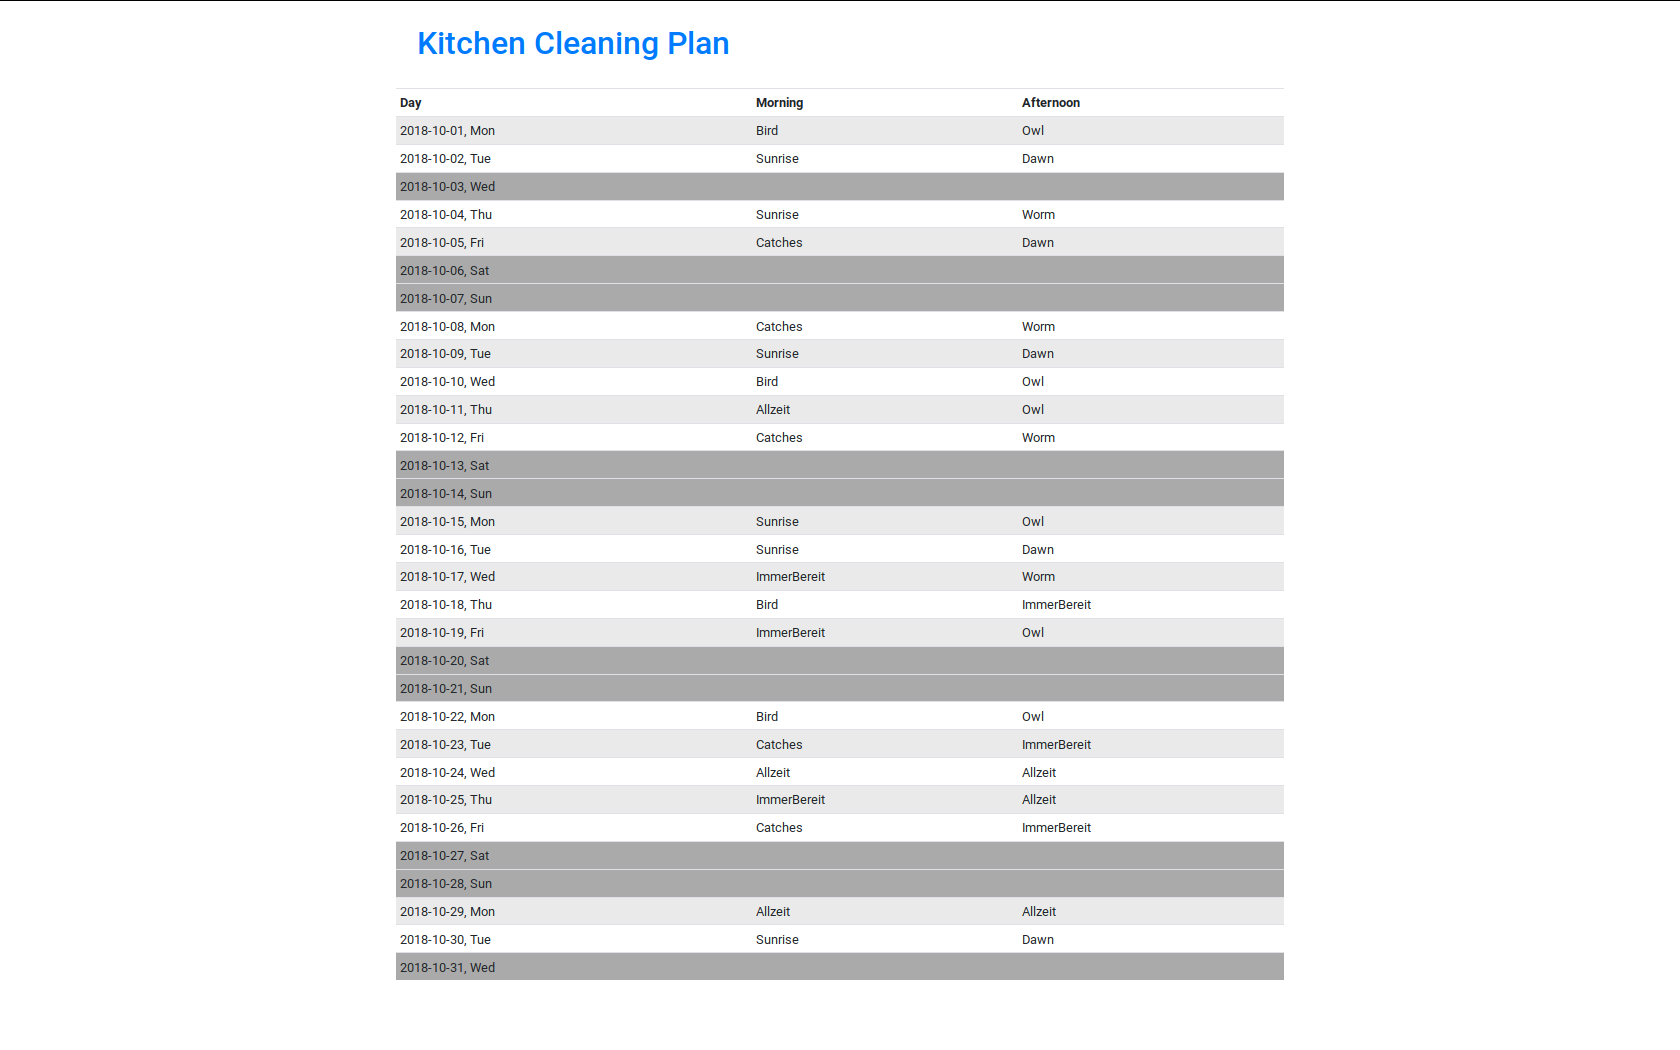
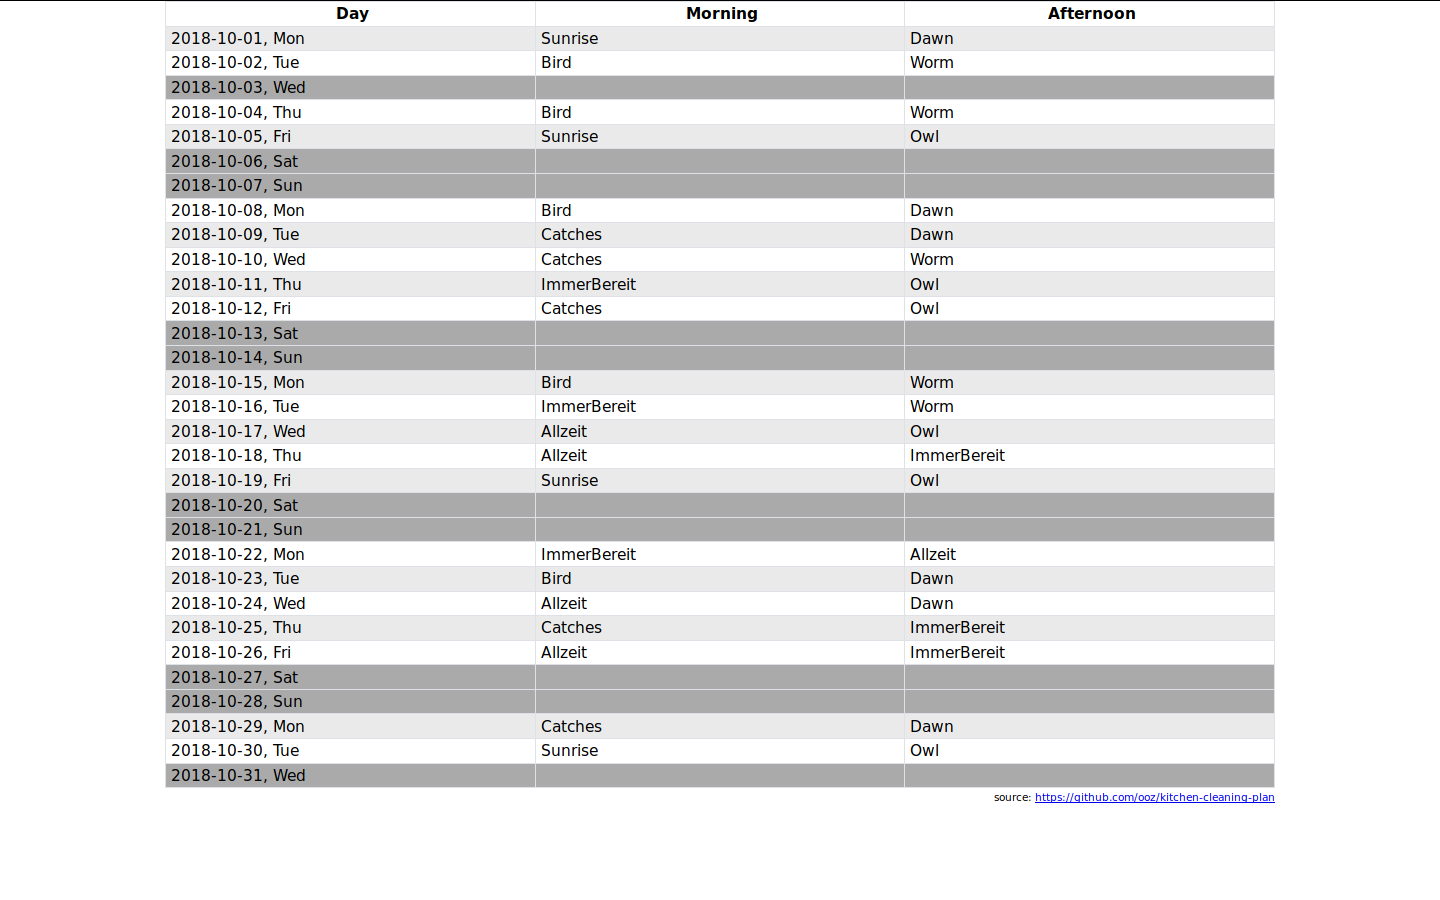
Update screenshot, add example pdf

diff --git a/README.md b/README.md
@@ -2,6 +2,8 @@
 
 ![screenshot](screenshot.png)
 
+When printed it looks like this: [example-plan.pdf](example-plan.pdf)
+
 Can be configured via URL parameters:
 
 * `early`: People who would rather be on kitchen duty in the morning, comma separated
